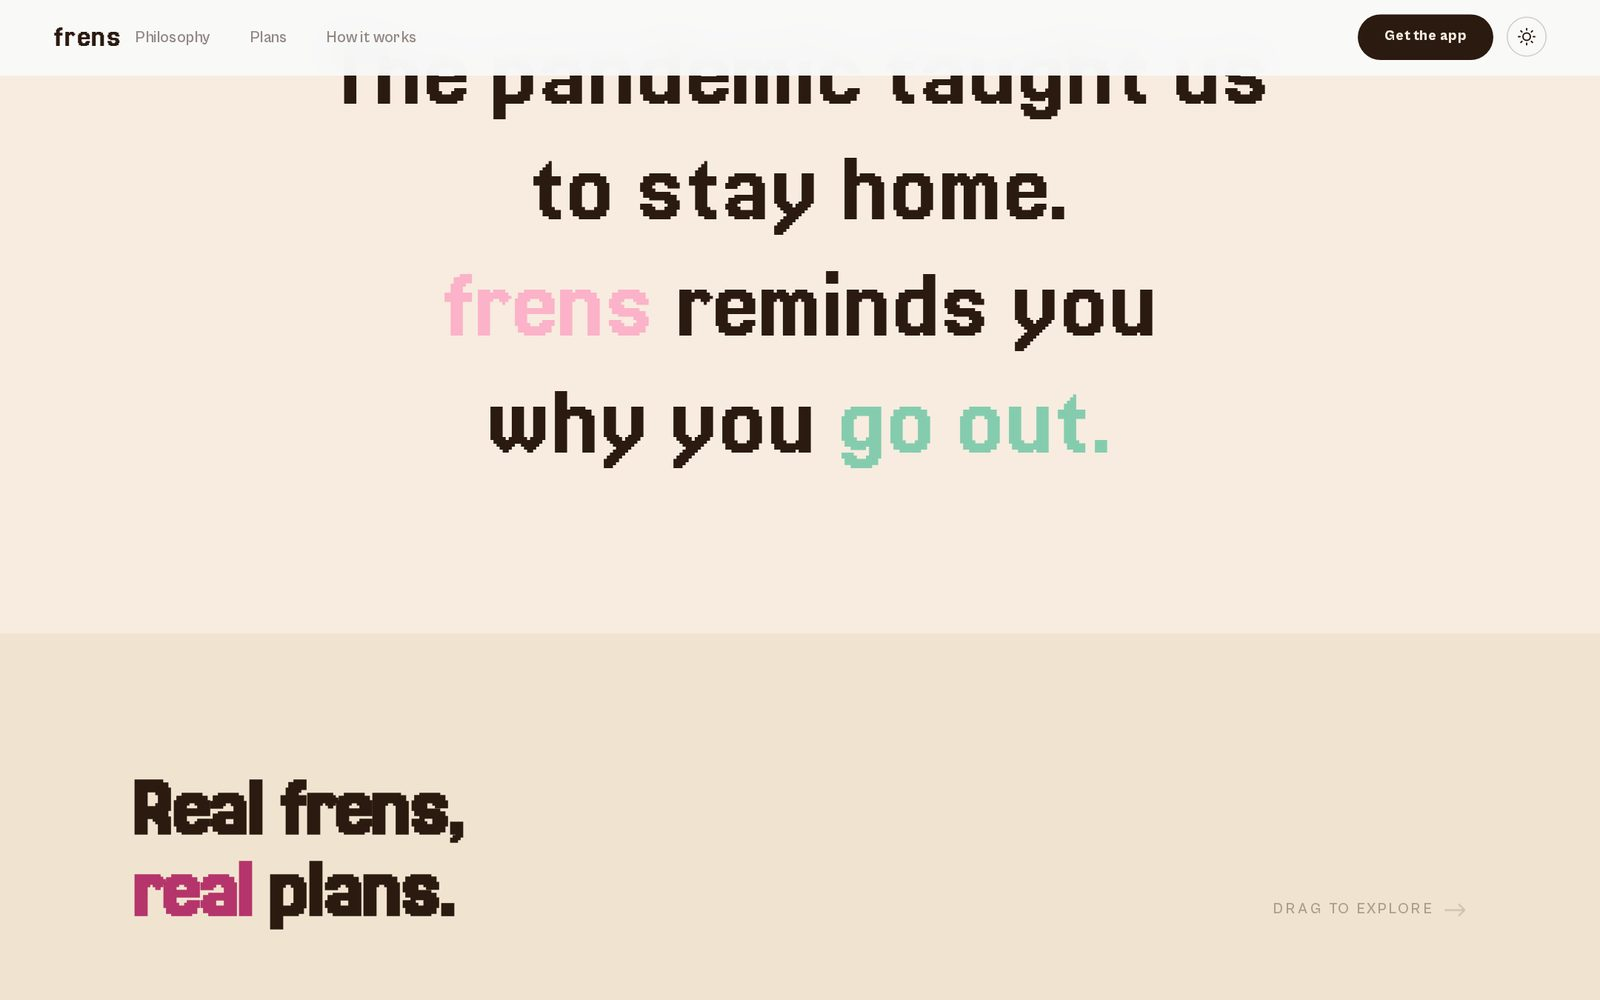
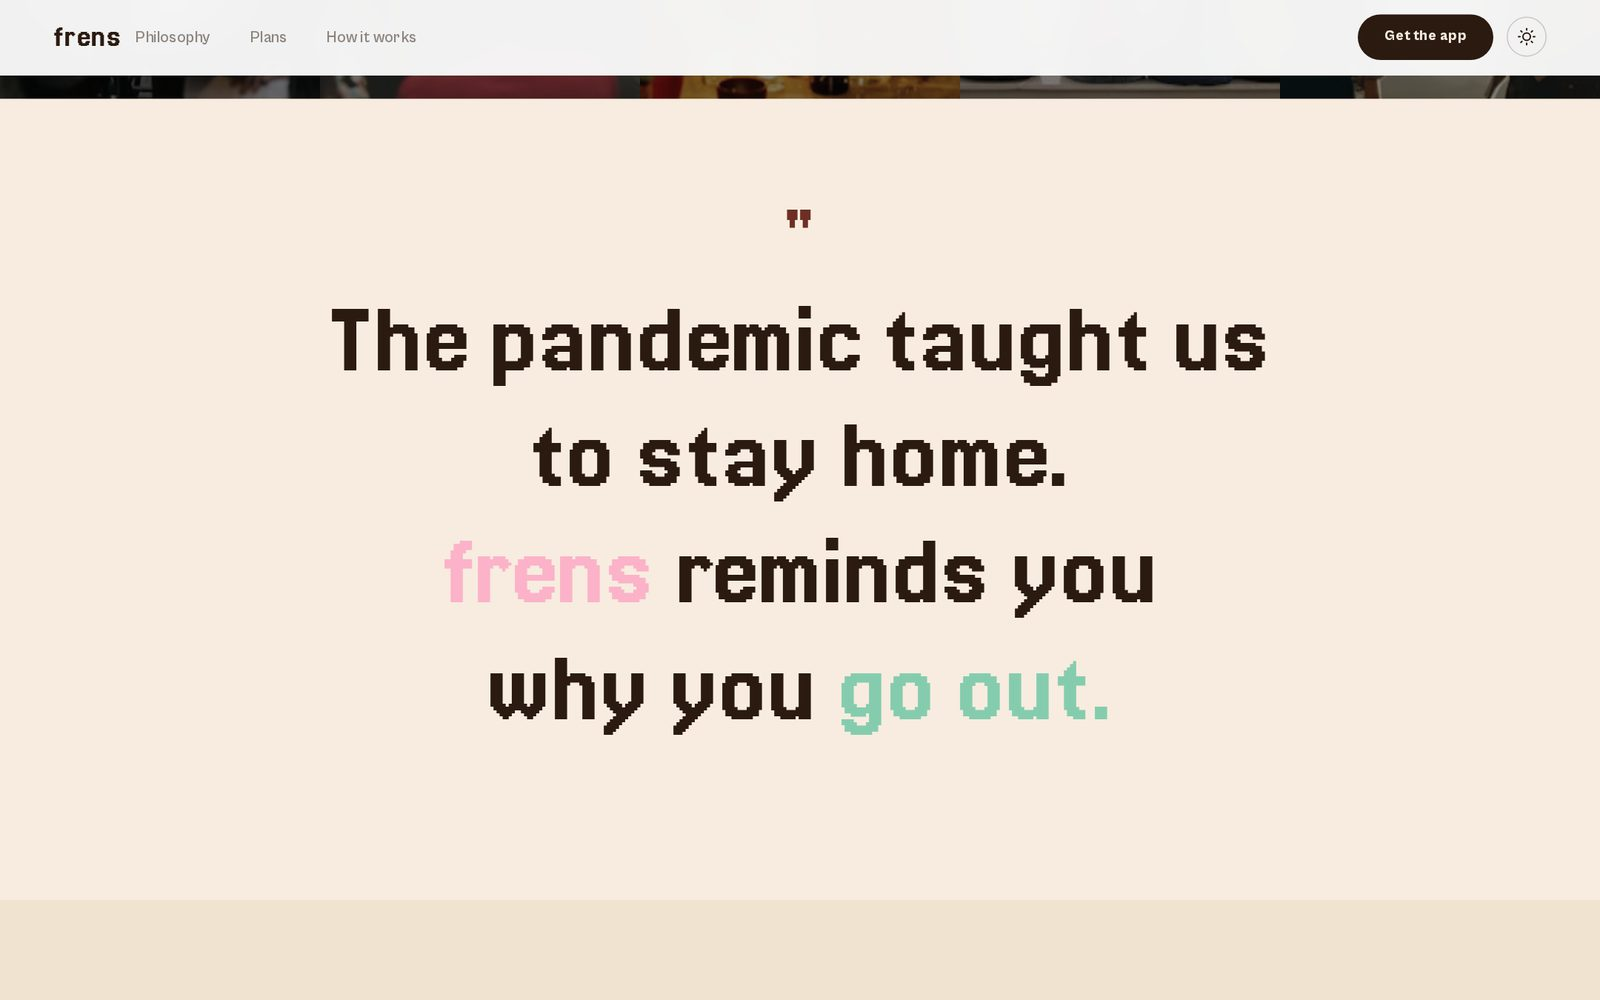
Frens: captura de la frase completa

diff --git a/project/frens.html b/project/frens.html
@@ -56,7 +56,7 @@
   <h2 data-en="Creative process" data-es="Proceso creativo" data-split>Creative process</h2>
   <ol class="d-process" data-reveal><li>1. <b><span data-en="Concept" data-es="Concepto">Concept</span>.</b> <span data-en="Narrative around getting out of the screen and making plans with real friends." data-es="Narrativa sobre salir de la pantalla y hacer planes con amigos reales.">Narrative around getting out of the screen and making plans with real friends.</span></li><li>2. <b><span data-en="Visual design" data-es="Diseño visual">Visual design</span>.</b> <span data-en="Palette, pixel typography, chat-bubble collages and the notebook-style steps section." data-es="Paleta, tipografía pixelada, collages de burbujas de chat y la sección de pasos estilo cuaderno.">Palette, pixel typography, chat-bubble collages and the notebook-style steps section.</span></li><li>3. <b><span data-en="Interaction" data-es="Interacción">Interaction</span>.</b> <span data-en="Mouse-reactive hero, scroll animations, light and dark mode and bilingual content." data-es="Hero que reacciona al mouse, animaciones al hacer scroll, modo claro y oscuro y contenido bilingüe.">Mouse-reactive hero, scroll animations, light and dark mode and bilingual content.</span></li></ol>
 </section>
-<section class="wrap"><div class="d-imgs"><span class="label s-label" data-en="Desktop" data-es="Escritorio">Desktop</span><div class="browsers"><div class="browser" data-clip><div class="browser-bar"><i></i><i></i><i></i><span>meetfrens.app</span></div><div data-lightbox><img src="../assets/projects/frens/desktop-0.jpg?v=1792869865" alt="Frens" loading="lazy"></div></div><div class="browser" data-clip><div class="browser-bar"><i></i><i></i><i></i><span>meetfrens.app</span></div><div data-lightbox><img src="../assets/projects/frens/desktop-1.jpg?v=1792869442" alt="Frens" loading="lazy"></div></div><div class="browser" data-clip><div class="browser-bar"><i></i><i></i><i></i><span>meetfrens.app</span></div><div data-lightbox><img src="../assets/projects/frens/desktop-2.jpg?v=1792869442" alt="Frens" loading="lazy"></div></div><div class="browser" data-clip><div class="browser-bar"><i></i><i></i><i></i><span>meetfrens.app</span></div><div data-lightbox><img src="../assets/projects/frens/desktop-3.jpg?v=1792869442" alt="Frens" loading="lazy"></div></div></div><span class="label s-label" data-en="Mobile" data-es="Móvil">Mobile</span><div class="phones"><div class="phone" data-clip><div class="phone-screen" data-lightbox><img src="../assets/projects/frens/mobile-0.jpg?v=1792869865" alt="Frens" loading="lazy"></div></div><div class="phone" data-clip><div class="phone-screen" data-lightbox><img src="../assets/projects/frens/mobile-1.jpg?v=1792869866" alt="Frens" loading="lazy"></div></div></div></div></section>
+<section class="wrap"><div class="d-imgs"><span class="label s-label" data-en="Desktop" data-es="Escritorio">Desktop</span><div class="browsers"><div class="browser" data-clip><div class="browser-bar"><i></i><i></i><i></i><span>meetfrens.app</span></div><div data-lightbox><img src="../assets/projects/frens/desktop-0.jpg?v=1792869865" alt="Frens" loading="lazy"></div></div><div class="browser" data-clip><div class="browser-bar"><i></i><i></i><i></i><span>meetfrens.app</span></div><div data-lightbox><img src="../assets/projects/frens/desktop-1.jpg?v=1792869442" alt="Frens" loading="lazy"></div></div><div class="browser" data-clip><div class="browser-bar"><i></i><i></i><i></i><span>meetfrens.app</span></div><div data-lightbox><img src="../assets/projects/frens/desktop-2.jpg?v=1792869442" alt="Frens" loading="lazy"></div></div><div class="browser" data-clip><div class="browser-bar"><i></i><i></i><i></i><span>meetfrens.app</span></div><div data-lightbox><img src="../assets/projects/frens/desktop-3.jpg?v=1792870186" alt="Frens" loading="lazy"></div></div></div><span class="label s-label" data-en="Mobile" data-es="Móvil">Mobile</span><div class="phones"><div class="phone" data-clip><div class="phone-screen" data-lightbox><img src="../assets/projects/frens/mobile-0.jpg?v=1792869865" alt="Frens" loading="lazy"></div></div><div class="phone" data-clip><div class="phone-screen" data-lightbox><img src="../assets/projects/frens/mobile-1.jpg?v=1792869866" alt="Frens" loading="lazy"></div></div></div></div></section>
 <section class="wrap d-next">
   <a href="jahzart.html">
     <div><span class="label" data-en="Next project" data-es="Siguiente proyecto">Next project</span><h2>Jahzart</h2></div>
